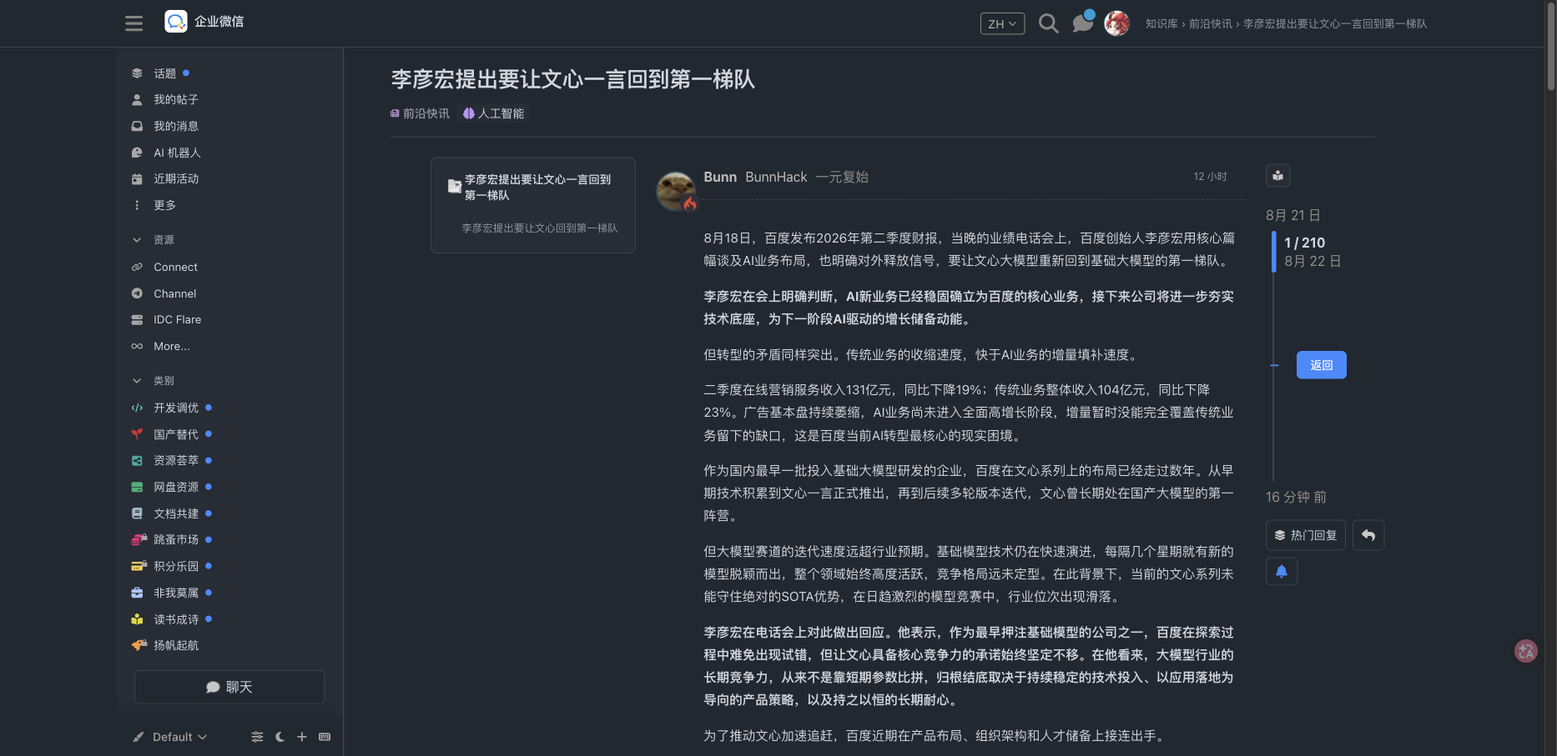
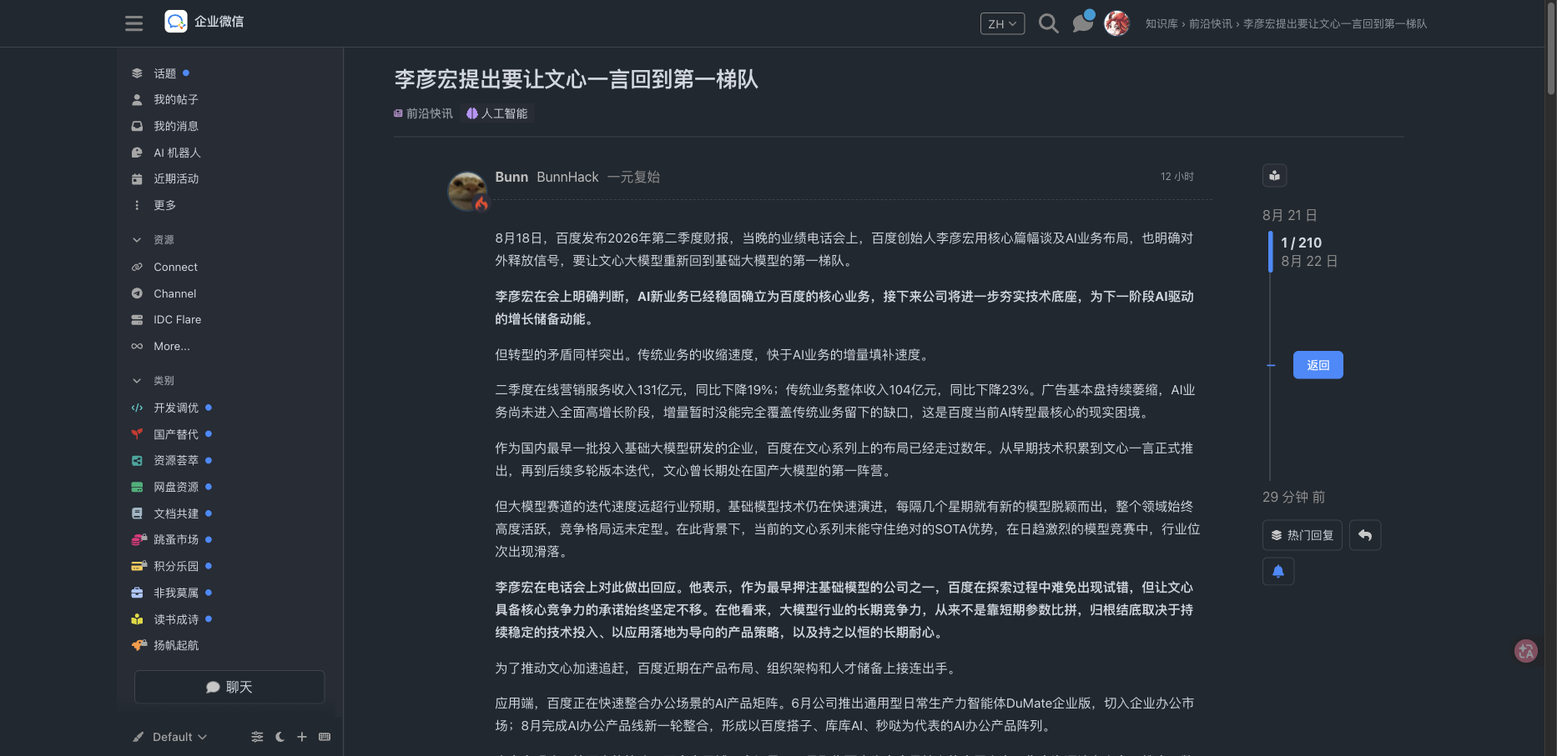
fix(layout): remove artificial left TOC and restore spacious smart doc layout with native right timeline

diff --git a/linuxdo-wecom.user.js b/linuxdo-wecom.user.js
@@ -12,7 +12,7 @@
 
 (function () {
   "use strict";
-  const CSS = "/* ==========================================================================\n   Linux DO · 企业微信智能文档 / 团队知识库版式样式表 (WeCom Smart Doc Layout)\n   ========================================================================== */\n\n/* 1. 主题与色彩系统 (Theme & Tokens) */\nhtml.wecom-doc-theme {\n  color-scheme: light !important;\n  --wecom-bg: #ffffff;\n  --wecom-sidebar: #f6f7f9;\n  --wecom-line: #ebebeb;\n  --wecom-text: #1f1f1f;\n  --wecom-text-2: #6e6e6e;\n  --wecom-text-3: #8c8c8c;\n  --wecom-search: #f3f3f3;\n  --wecom-hover: #f0f0f0;\n  --wecom-active: rgba(31, 126, 255, 0.12);\n  --wecom-link: #1f7eff;\n  --wecom-link-hover: #006fe6;\n  --wecom-doc: #4b8cff;\n  --wecom-callout-bg: #f0f6ff;\n  --wecom-callout-border: rgba(31, 126, 255, 0.2);\n  --wecom-header-h: 56px;\n\n  /* Discourse 原生变量覆盖 */\n  --primary: #1f1f1f !important;\n  --secondary: #ffffff !important;\n  --header_background: #ffffff !important;\n  --header_primary: #1f1f1f !important;\n  --primary-low: #f6f7f9 !important;\n  --primary-very-low: #ffffff !important;\n  --d-hover: #f0f0f0 !important;\n  --tertiary: #1f7eff !important;\n}\n\n/* 深色模式：严格采用 GitHub Primer soft dark (dark_dimmed) + 智能文档蓝 */\nhtml.wecom-doc-theme.wecom-dark {\n  color-scheme: dark !important;\n  --wecom-bg: #212830;\n  --wecom-sidebar: #262c36;\n  --wecom-line: #3d444d;\n  --wecom-text: #d1d7e0;\n  --wecom-text-2: #9198a1;\n  --wecom-text-3: #9198a1;\n  --wecom-search: #2a313c;\n  --wecom-hover: #2f3742;\n  --wecom-active: rgba(56, 139, 255, 0.18);\n  --wecom-link: #388bff;\n  --wecom-link-hover: #549dff;\n  --wecom-doc: #4b8cff;\n  --wecom-callout-bg: #1c2438;\n  --wecom-callout-border: rgba(56, 139, 255, 0.25);\n\n  /* Discourse 原生变量覆盖 */\n  --primary: #d1d7e0 !important;\n  --secondary: #212830 !important;\n  --header_background: #212830 !important;\n  --header_primary: #d1d7e0 !important;\n  --primary-low: #262c36 !important;\n  --primary-very-low: #151b23 !important;\n  --d-hover: #2f3742 !important;\n  --tertiary: #388bff !important;\n}\n\nhtml.wecom-doc-theme,\nhtml.wecom-doc-theme body {\n  background: var(--wecom-bg) !important;\n  color: var(--wecom-text) !important;\n  font-family: -apple-system, BlinkMacSystemFont, \"Segoe UI\", \"PingFang SC\",\n    \"Hiragino Sans GB\", \"Microsoft YaHei\", Arial, sans-serif !important;\n  -webkit-font-smoothing: antialiased;\n}\n\nhtml.wecom-doc-theme a {\n  color: inherit;\n  text-decoration: none;\n}\n\nhtml.wecom-doc-theme .cooked a {\n  color: var(--wecom-link) !important;\n  text-decoration: none;\n}\n\nhtml.wecom-doc-theme .cooked a:hover {\n  text-decoration: underline;\n}\n\n/* ==========================================================================\n   2. 顶栏组件 (Header)\n   ========================================================================== */\nhtml.wecom-doc-theme .d-header-wrap,\nhtml.wecom-doc-theme body .d-header {\n  height: var(--wecom-header-h) !important;\n  background: var(--wecom-bg) !important;\n  border-bottom: 1px solid var(--wecom-line) !important;\n  box-shadow: none !important;\n}\n\nhtml.wecom-doc-theme .d-header .title img,\nhtml.wecom-doc-theme .d-header .title picture,\nhtml.wecom-doc-theme .d-header .title .logo-big,\nhtml.wecom-doc-theme .d-header .title .logo-small {\n  display: none !important;\n}\n\nhtml.wecom-doc-theme .wecom-brand {\n  display: inline-flex;\n  align-items: center;\n  gap: 8px;\n  font-size: 15px;\n  font-weight: 600;\n  color: var(--wecom-text);\n  text-decoration: none;\n  letter-spacing: -0.2px;\n}\n\nhtml.wecom-doc-theme .wecom-app-icon {\n  width: 28px;\n  height: 28px;\n  flex: none;\n  filter: drop-shadow(0 1px 2px rgba(0, 0, 0, 0.08));\n}\n\nhtml.wecom-doc-theme .wecom-topic-context {\n  margin-left: 14px;\n  display: inline-flex;\n  align-items: center;\n  overflow: hidden;\n  text-overflow: ellipsis;\n  white-space: nowrap;\n  color: var(--wecom-text-2);\n  font-size: 13px;\n  max-width: 55vw;\n}\n\nhtml.wecom-doc-theme .d-header .search-input {\n  border-radius: 6px !important;\n  background: var(--wecom-search) !important;\n  border: 1px solid var(--wecom-line) !important;\n  color: var(--wecom-text) !important;\n}\n\n/* ==========================================================================\n   3. 侧边栏导航 (Sidebar / Knowledge Base Navigation)\n   ========================================================================== */\nhtml.wecom-doc-theme .sidebar-wrapper {\n  background: var(--wecom-sidebar) !important;\n  border-right: 1px solid var(--wecom-line) !important;\n  box-shadow: none !important;\n}\n\nhtml.wecom-doc-theme .sidebar-section-header-text {\n  font-size: 12px !important;\n  font-weight: 600 !important;\n  color: var(--wecom-text-3) !important;\n  text-transform: uppercase;\n  letter-spacing: 0.5px;\n}\n\nhtml.wecom-doc-theme .sidebar-section-link,\nhtml.wecom-doc-theme .sidebar-section-link-content-text {\n  color: var(--wecom-text) !important;\n  font-size: 13.5px !important;\n  font-weight: 400;\n}\n\nhtml.wecom-doc-theme .sidebar-section-link-wrapper.is-active,\nhtml.wecom-doc-theme .sidebar-section-link.active {\n  background: var(--wecom-active) !important;\n  color: var(--wecom-link) !important;\n  border-radius: 6px;\n  font-weight: 500 !important;\n}\n\nhtml.wecom-doc-theme .sidebar-section-link:hover {\n  background: var(--wecom-hover);\n  border-radius: 6px;\n}\n\n/* ==========================================================================\n   4. 主页文件表版式 (Home: Knowledge Base File Table)\n   ========================================================================== */\n/* 弱化或隐藏论坛式大条幅与全站公告 */\nhtml.wecom-doc-theme .custom-homepage-banner,\nhtml.wecom-doc-theme #banner,\nhtml.wecom-doc-theme .global-notice,\nhtml.wecom-doc-theme .alert-global-notice,\nhtml.wecom-doc-theme .welcome-banner,\nhtml.wecom-doc-theme .custom-search-banner-wrap,\nhtml.wecom-doc-theme .where-possible-begins,\nhtml.wecom-doc-theme .hero-banner {\n  display: none !important;\n}\n\n/* 主内容区 */\nhtml.wecom-doc-theme #main-outlet {\n  background: var(--wecom-bg) !important;\n  max-width: 1380px !important;\n  padding: 20px 24px !important;\n}\n\n/* 话题列表表头伪装为文件表 */\nhtml.wecom-doc-theme .topic-list-header th {\n  color: var(--wecom-text-3) !important;\n  border-bottom: 1px solid var(--wecom-line) !important;\n  font-weight: 500;\n  font-size: 13px;\n  padding: 10px 8px;\n}\n\nhtml.wecom-doc-theme .topic-list-item {\n  border-bottom: 1px solid var(--wecom-line) !important;\n  transition: background 120ms ease;\n}\n\nhtml.wecom-doc-theme .topic-list-item:hover {\n  background: var(--wecom-hover) !important;\n}\n\n/* 行首蓝色文档图标 */\nhtml.wecom-doc-theme .wecom-doc-icon {\n  width: 18px;\n  height: 18px;\n  border-radius: 4px;\n  flex: none;\n  background: var(--wecom-doc);\n  position: relative;\n  display: inline-block;\n  vertical-align: -3px;\n  margin-right: 8px;\n}\n\nhtml.wecom-doc-theme .wecom-doc-icon::before {\n  content: \"\";\n  position: absolute;\n  left: 3.5px;\n  right: 3.5px;\n  top: 4px;\n  bottom: 4px;\n  background:\n    linear-gradient(#fff, #fff) 0 0 / 100% 2px no-repeat,\n    linear-gradient(#fff, #fff) 0 3.5px / 100% 2px no-repeat,\n    linear-gradient(#fff, #fff) 0 7px / 65% 2px no-repeat;\n}\n\n/* 压缩头像列，减少论坛广场感 */\nhtml.wecom-doc-theme .topic-list .posters {\n  max-width: 90px;\n}\n\nhtml.wecom-doc-theme .topic-list .posters a:not(:first-child) {\n  margin-left: -8px;\n  opacity: 0.85;\n}\n\nhtml.wecom-doc-theme .topic-list .avatar {\n  width: 22px !important;\n  height: 22px !important;\n  border-radius: 50% !important;\n  border: 1.5px solid var(--wecom-bg) !important;\n}\n\n/* 新建话题按钮 -> 企微新建文档按钮 */\nhtml.wecom-doc-theme .btn-primary,\nhtml.wecom-doc-theme .wecom-create-topic {\n  background: var(--wecom-link) !important;\n  color: #fff !important;\n  border: none !important;\n  border-radius: 6px !important;\n  font-weight: 500 !important;\n  padding: 7px 16px !important;\n  transition: background 120ms ease;\n}\n\nhtml.wecom-doc-theme .btn-primary:hover,\nhtml.wecom-doc-theme .wecom-create-topic:hover {\n  background: var(--wecom-link-hover) !important;\n}\n\nhtml.wecom-doc-theme .btn-default {\n  border-radius: 6px !important;\n  border: 1px solid var(--wecom-line) !important;\n  background: var(--wecom-bg) !important;\n  color: var(--wecom-text) !important;\n}\n\n/* ==========================================================================\n   5. 话题详情页版式 (Topic: Smart Document Canvas & Timeline)\n   ========================================================================== */\nhtml.wecom-doc-topic #main-container {\n  width: 100% !important;\n  max-width: 100% !important;\n  margin: 0 !important;\n  padding: 0 !important;\n}\n\nhtml.wecom-doc-topic #topic-title {\n  margin-bottom: 24px !important;\n  padding-bottom: 16px !important;\n  border-bottom: 1px solid var(--wecom-line) !important;\n  max-width: 1180px !important;\n  width: 100% !important;\n}\n\nhtml.wecom-doc-topic #topic-title h1,\nhtml.wecom-doc-topic #topic-title .fancy-title {\n  font-size: 26px !important;\n  font-weight: 700 !important;\n  line-height: 1.35 !important;\n  color: var(--wecom-text) !important;\n  letter-spacing: -0.3px;\n  margin-bottom: 12px !important;\n}\n\nhtml.wecom-doc-topic #topic-title .badge-wrapper.bullet,\nhtml.wecom-doc-topic #topic-title .badge-wrapper.bar {\n  display: inline-flex !important;\n  align-items: center !important;\n  padding: 2px 8px !important;\n  border-radius: 4px !important;\n  background: var(--wecom-search) !important;\n  font-size: 12px !important;\n  margin-right: 6px !important;\n}\n\nhtml.wecom-doc-topic #topic-title .badge-category__name,\nhtml.wecom-doc-topic #topic-title .badge-category-bg {\n  color: var(--wecom-text-2) !important;\n  font-weight: 500 !important;\n}\n\n/* 话题正文与侧栏三栏协同容器 */\nhtml.wecom-doc-topic .container.posts {\n  display: flex !important;\n  flex-direction: row !important;\n  gap: 24px !important;\n  align-items: flex-start !important;\n  width: 100% !important;\n  position: relative !important;\n}\n\n/* 左栏 TOC 目录 (aside.wecom-toc) */\nhtml.wecom-doc-topic aside.wecom-toc {\n  order: 1 !important;\n  width: 220px !important;\n  flex: none !important;\n  position: sticky !important;\n  top: 72px !important;\n  align-self: flex-start !important;\n  max-height: calc(100vh - 100px) !important;\n  overflow-y: auto !important;\n  background: var(--wecom-sidebar) !important;\n  border: 1px solid var(--wecom-line) !important;\n  border-radius: 8px !important;\n  padding: 12px !important;\n  font-size: 13px !important;\n  box-shadow: 0 1px 3px rgba(0, 0, 0, 0.04) !important;\n  z-index: 10 !important;\n}\n\nhtml.wecom-doc-topic .wecom-toc-header {\n  display: flex;\n  align-items: center;\n  gap: 6px;\n  font-size: 13.5px;\n  font-weight: 600;\n  color: var(--wecom-text);\n  margin-bottom: 12px;\n  cursor: pointer;\n  padding: 4px 8px;\n  border-radius: 6px;\n}\n\nhtml.wecom-doc-topic .wecom-toc-header:hover {\n  background: var(--wecom-hover);\n}\n\nhtml.wecom-doc-topic .wecom-toc-list {\n  list-style: none;\n  margin: 0;\n  padding: 0;\n}\n\nhtml.wecom-doc-topic .wecom-toc-item {\n  margin: 4px 0;\n}\n\nhtml.wecom-doc-topic .wecom-toc-item a {\n  display: block;\n  padding: 5px 8px;\n  border-radius: 6px;\n  color: var(--wecom-text-2);\n  white-space: nowrap;\n  overflow: hidden;\n  text-overflow: ellipsis;\n  transition: all 120ms ease;\n}\n\nhtml.wecom-doc-topic .wecom-toc-item a:hover {\n  background: var(--wecom-hover);\n  color: var(--wecom-link);\n}\n\nhtml.wecom-doc-topic .wecom-toc-level-2 a {\n  padding-left: 14px;\n}\n\nhtml.wecom-doc-topic .wecom-toc-level-3 a {\n  padding-left: 24px;\n  font-size: 12.5px;\n}\n\n/* 中栏正文流 (Main Post Stream) */\nhtml.wecom-doc-topic .container.posts > .row,\nhtml.wecom-doc-topic .container.posts .post-stream {\n  order: 2 !important;\n  flex: 1 1 0% !important;\n  min-width: 0 !important;\n  max-width: 960px !important;\n  width: 100% !important;\n}\n\n/* 右栏时间线与阅读进度导航 (Topic Timeline) */\nhtml.wecom-doc-topic .container.posts .topic-navigation {\n  order: 3 !important;\n  width: 170px !important;\n  flex: none !important;\n  position: sticky !important;\n  top: 72px !important;\n  align-self: flex-start !important;\n  display: block !important;\n  margin: 0 !important;\n}\n\nhtml.wecom-doc-topic .timeline-container {\n  background: transparent !important;\n  display: block !important;\n  position: static !important;\n}\n\nhtml.wecom-doc-topic .timeline-container .topic-timeline .timeline-handle {\n  background-color: var(--wecom-link) !important;\n  border-radius: 4px !important;\n}\n\nhtml.wecom-doc-topic .timeline-container .topic-timeline .timeline-scrollarea {\n  border-left: 2px solid var(--wecom-line) !important;\n}\n\nhtml.wecom-doc-topic .timeline-container .topic-timeline .timeline-docked {\n  border-left-color: var(--wecom-line) !important;\n}\n\nhtml.wecom-doc-topic .timeline-container .timeline-controls button {\n  border-radius: 6px !important;\n  border: 1px solid var(--wecom-line) !important;\n  background: var(--wecom-sidebar) !important;\n  color: var(--wecom-text) !important;\n  font-size: 12px !important;\n}\n\nhtml.wecom-doc-topic .wecom-toc-level-3 a {\n  padding-left: 24px;\n  font-size: 12.5px;\n}\n\n/* 中栏主体 (Document Area) */\nhtml.wecom-doc-topic .container.posts {\n  flex: 1 1 0% !important;\n  min-width: 0 !important;\n}\n\nhtml.wecom-doc-topic #topic-title {\n  margin-bottom: 24px !important;\n  padding-bottom: 16px !important;\n  border-bottom: 1px solid var(--wecom-line) !important;\n}\n\nhtml.wecom-doc-topic #topic-title h1,\nhtml.wecom-doc-topic #topic-title .fancy-title {\n  font-size: 26px !important;\n  font-weight: 700 !important;\n  line-height: 1.35 !important;\n  color: var(--wecom-text) !important;\n  letter-spacing: -0.3px;\n  margin-bottom: 12px !important;\n}\n\nhtml.wecom-doc-topic #topic-title .badge-wrapper.bullet,\nhtml.wecom-doc-topic #topic-title .badge-wrapper.bar {\n  display: inline-flex !important;\n  align-items: center !important;\n  padding: 2px 8px !important;\n  border-radius: 4px !important;\n  background: var(--wecom-search) !important;\n  font-size: 12px !important;\n  margin-right: 6px !important;\n}\n\nhtml.wecom-doc-topic #topic-title .badge-category__name,\nhtml.wecom-doc-topic #topic-title .badge-category-bg {\n  color: var(--wecom-text-2) !important;\n  font-weight: 500 !important;\n}\n\n/* 主帖 (#post_1) 作为核心文档画布 */\nhtml.wecom-doc-topic .topic-post:first-child {\n  border: none !important;\n  margin-bottom: 36px !important;\n}\n\nhtml.wecom-doc-topic .topic-post:first-child .topic-body {\n  border-top: none !important;\n}\n\nhtml.wecom-doc-topic .topic-post:first-child .topic-meta-data {\n  display: flex !important;\n  align-items: center !important;\n  gap: 10px !important;\n  padding-bottom: 16px !important;\n  margin-bottom: 16px !important;\n  border-bottom: 1px dashed var(--wecom-line) !important;\n}\n\n/* 2 楼及以后的回复呈现为轻量「批注与讨论流」 */\nhtml.wecom-doc-topic .topic-post:not(:first-child) {\n  background: var(--wecom-sidebar) !important;\n  border: 1px solid var(--wecom-line) !important;\n  border-radius: 8px !important;\n  margin: 14px 0 !important;\n  padding: 8px 16px !important;\n  box-shadow: 0 1px 2px rgba(0, 0, 0, 0.03) !important;\n}\n\nhtml.wecom-doc-topic .topic-post:not(:first-child) .topic-body {\n  border-top: none !important;\n}\n\nhtml.wecom-doc-topic .topic-post:not(:first-child) .topic-meta-data {\n  padding-bottom: 4px !important;\n}\n\nhtml.wecom-doc-topic .names span.first.username {\n  font-weight: 600 !important;\n  color: var(--wecom-text) !important;\n  font-size: 13.5px !important;\n}\n\nhtml.wecom-doc-topic .post-info.post-date {\n  color: var(--wecom-text-3) !important;\n  font-size: 12px !important;\n}\n\n/* ==========================================================================\n   6. 正文排版与组件 (Smart Typography & Callouts)\n   ========================================================================== */\nhtml.wecom-doc-theme .cooked {\n  font-size: 15.5px !important;\n  line-height: 1.75 !important;\n  color: var(--wecom-text) !important;\n}\n\nhtml.wecom-doc-theme .cooked h1 {\n  font-size: 22px !important;\n  font-weight: 700 !important;\n  margin: 28px 0 14px !important;\n  color: var(--wecom-text) !important;\n  border-bottom: 1px solid var(--wecom-line) !important;\n  padding-bottom: 8px !important;\n}\n\nhtml.wecom-doc-theme .cooked h2 {\n  font-size: 18.5px !important;\n  font-weight: 600 !important;\n  margin: 24px 0 12px !important;\n  color: var(--wecom-text) !important;\n}\n\nhtml.wecom-doc-theme .cooked h3 {\n  font-size: 16.5px !important;\n  font-weight: 600 !important;\n  margin: 20px 0 10px !important;\n  color: var(--wecom-text) !important;\n}\n\nhtml.wecom-doc-theme .cooked ul,\nhtml.wecom-doc-theme .cooked ol {\n  padding-left: 24px !important;\n  margin: 12px 0 !important;\n}\n\nhtml.wecom-doc-theme .cooked li {\n  margin-bottom: 6px !important;\n  line-height: 1.7 !important;\n}\n\n/* 智能文档专属 Callout 提示框 */\nhtml.wecom-doc-theme .cooked blockquote,\nhtml.wecom-doc-theme aside.quote {\n  margin: 16px 0 !important;\n  padding: 14px 18px !important;\n  border: 1px solid var(--wecom-callout-border) !important;\n  background: var(--wecom-callout-bg) !important;\n  border-radius: 8px !important;\n  color: var(--wecom-text) !important;\n  position: relative;\n  box-shadow: 0 1px 3px rgba(0, 0, 0, 0.04);\n}\n\nhtml.wecom-doc-theme .cooked blockquote p:last-child {\n  margin-bottom: 0 !important;\n}\n\n/* 代码块与行内代码 */\nhtml.wecom-doc-theme .cooked code {\n  background: var(--wecom-search) !important;\n  color: var(--wecom-text) !important;\n  padding: 2px 6px !important;\n  border-radius: 4px !important;\n  font-size: 0.9em !important;\n}\n\nhtml.wecom-doc-theme .cooked pre code {\n  padding: 14px 16px !important;\n  border-radius: 8px !important;\n  border: 1px solid var(--wecom-line) !important;\n  display: block;\n  line-height: 1.55 !important;\n}\n\n/* 表格组件 */\nhtml.wecom-doc-theme .cooked table {\n  width: 100% !important;\n  border-collapse: collapse !important;\n  margin: 16px 0 !important;\n  border: 1px solid var(--wecom-line) !important;\n  border-radius: 6px !important;\n}\n\nhtml.wecom-doc-theme .cooked table th,\nhtml.wecom-doc-theme .cooked table td {\n  border: 1px solid var(--wecom-line) !important;\n  padding: 10px 14px !important;\n}\n\nhtml.wecom-doc-theme .cooked table th {\n  background: var(--wecom-sidebar) !important;\n  font-weight: 600 !important;\n}\n\n/* 底部操作区 */\nhtml.wecom-doc-theme #topic-footer-buttons {\n  border-top: 1px solid var(--wecom-line) !important;\n  padding-top: 16px !important;\n}\n\n";
+  const CSS = "/* ==========================================================================\n   Linux DO · 企业微信智能文档 / 团队知识库版式样式表 (WeCom Smart Doc Layout)\n   ========================================================================== */\n\n/* 1. 主题与色彩系统 (Theme & Tokens) */\nhtml.wecom-doc-theme {\n  color-scheme: light !important;\n  --wecom-bg: #ffffff;\n  --wecom-sidebar: #f6f7f9;\n  --wecom-line: #ebebeb;\n  --wecom-text: #1f1f1f;\n  --wecom-text-2: #6e6e6e;\n  --wecom-text-3: #8c8c8c;\n  --wecom-search: #f3f3f3;\n  --wecom-hover: #f0f0f0;\n  --wecom-active: rgba(31, 126, 255, 0.12);\n  --wecom-link: #1f7eff;\n  --wecom-link-hover: #006fe6;\n  --wecom-doc: #4b8cff;\n  --wecom-callout-bg: #f0f6ff;\n  --wecom-callout-border: rgba(31, 126, 255, 0.2);\n  --wecom-header-h: 56px;\n\n  /* Discourse 原生变量覆盖 */\n  --primary: #1f1f1f !important;\n  --secondary: #ffffff !important;\n  --header_background: #ffffff !important;\n  --header_primary: #1f1f1f !important;\n  --primary-low: #f6f7f9 !important;\n  --primary-very-low: #ffffff !important;\n  --d-hover: #f0f0f0 !important;\n  --tertiary: #1f7eff !important;\n}\n\n/* 深色模式：严格采用 GitHub Primer soft dark (dark_dimmed) + 智能文档蓝 */\nhtml.wecom-doc-theme.wecom-dark {\n  color-scheme: dark !important;\n  --wecom-bg: #212830;\n  --wecom-sidebar: #262c36;\n  --wecom-line: #3d444d;\n  --wecom-text: #d1d7e0;\n  --wecom-text-2: #9198a1;\n  --wecom-text-3: #9198a1;\n  --wecom-search: #2a313c;\n  --wecom-hover: #2f3742;\n  --wecom-active: rgba(56, 139, 255, 0.18);\n  --wecom-link: #388bff;\n  --wecom-link-hover: #549dff;\n  --wecom-doc: #4b8cff;\n  --wecom-callout-bg: #1c2438;\n  --wecom-callout-border: rgba(56, 139, 255, 0.25);\n\n  /* Discourse 原生变量覆盖 */\n  --primary: #d1d7e0 !important;\n  --secondary: #212830 !important;\n  --header_background: #212830 !important;\n  --header_primary: #d1d7e0 !important;\n  --primary-low: #262c36 !important;\n  --primary-very-low: #151b23 !important;\n  --d-hover: #2f3742 !important;\n  --tertiary: #388bff !important;\n}\n\nhtml.wecom-doc-theme,\nhtml.wecom-doc-theme body {\n  background: var(--wecom-bg) !important;\n  color: var(--wecom-text) !important;\n  font-family: -apple-system, BlinkMacSystemFont, \"Segoe UI\", \"PingFang SC\",\n    \"Hiragino Sans GB\", \"Microsoft YaHei\", Arial, sans-serif !important;\n  -webkit-font-smoothing: antialiased;\n}\n\nhtml.wecom-doc-theme a {\n  color: inherit;\n  text-decoration: none;\n}\n\nhtml.wecom-doc-theme .cooked a {\n  color: var(--wecom-link) !important;\n  text-decoration: none;\n}\n\nhtml.wecom-doc-theme .cooked a:hover {\n  text-decoration: underline;\n}\n\n/* ==========================================================================\n   2. 顶栏组件 (Header)\n   ========================================================================== */\nhtml.wecom-doc-theme .d-header-wrap,\nhtml.wecom-doc-theme body .d-header {\n  height: var(--wecom-header-h) !important;\n  background: var(--wecom-bg) !important;\n  border-bottom: 1px solid var(--wecom-line) !important;\n  box-shadow: none !important;\n}\n\nhtml.wecom-doc-theme .d-header .title img,\nhtml.wecom-doc-theme .d-header .title picture,\nhtml.wecom-doc-theme .d-header .title .logo-big,\nhtml.wecom-doc-theme .d-header .title .logo-small {\n  display: none !important;\n}\n\nhtml.wecom-doc-theme .wecom-brand {\n  display: inline-flex;\n  align-items: center;\n  gap: 8px;\n  font-size: 15px;\n  font-weight: 600;\n  color: var(--wecom-text);\n  text-decoration: none;\n  letter-spacing: -0.2px;\n}\n\nhtml.wecom-doc-theme .wecom-app-icon {\n  width: 28px;\n  height: 28px;\n  flex: none;\n  filter: drop-shadow(0 1px 2px rgba(0, 0, 0, 0.08));\n}\n\nhtml.wecom-doc-theme .wecom-topic-context {\n  margin-left: 14px;\n  display: inline-flex;\n  align-items: center;\n  overflow: hidden;\n  text-overflow: ellipsis;\n  white-space: nowrap;\n  color: var(--wecom-text-2);\n  font-size: 13px;\n  max-width: 55vw;\n}\n\nhtml.wecom-doc-theme .d-header .search-input {\n  border-radius: 6px !important;\n  background: var(--wecom-search) !important;\n  border: 1px solid var(--wecom-line) !important;\n  color: var(--wecom-text) !important;\n}\n\n/* ==========================================================================\n   3. 侧边栏导航 (Sidebar / Knowledge Base Navigation)\n   ========================================================================== */\nhtml.wecom-doc-theme .sidebar-wrapper {\n  background: var(--wecom-sidebar) !important;\n  border-right: 1px solid var(--wecom-line) !important;\n  box-shadow: none !important;\n}\n\nhtml.wecom-doc-theme .sidebar-section-header-text {\n  font-size: 12px !important;\n  font-weight: 600 !important;\n  color: var(--wecom-text-3) !important;\n  text-transform: uppercase;\n  letter-spacing: 0.5px;\n}\n\nhtml.wecom-doc-theme .sidebar-section-link,\nhtml.wecom-doc-theme .sidebar-section-link-content-text {\n  color: var(--wecom-text) !important;\n  font-size: 13.5px !important;\n  font-weight: 400;\n}\n\nhtml.wecom-doc-theme .sidebar-section-link-wrapper.is-active,\nhtml.wecom-doc-theme .sidebar-section-link.active {\n  background: var(--wecom-active) !important;\n  color: var(--wecom-link) !important;\n  border-radius: 6px;\n  font-weight: 500 !important;\n}\n\nhtml.wecom-doc-theme .sidebar-section-link:hover {\n  background: var(--wecom-hover);\n  border-radius: 6px;\n}\n\n/* ==========================================================================\n   4. 主页文件表版式 (Home: Knowledge Base File Table)\n   ========================================================================== */\n/* 弱化或隐藏论坛式大条幅与全站公告 */\nhtml.wecom-doc-theme .custom-homepage-banner,\nhtml.wecom-doc-theme #banner,\nhtml.wecom-doc-theme .global-notice,\nhtml.wecom-doc-theme .alert-global-notice,\nhtml.wecom-doc-theme .welcome-banner,\nhtml.wecom-doc-theme .custom-search-banner-wrap,\nhtml.wecom-doc-theme .where-possible-begins,\nhtml.wecom-doc-theme .hero-banner {\n  display: none !important;\n}\n\n/* 主内容区 */\nhtml.wecom-doc-theme #main-outlet {\n  background: var(--wecom-bg) !important;\n  max-width: 1380px !important;\n  padding: 20px 24px !important;\n}\n\n/* 话题列表表头伪装为文件表 */\nhtml.wecom-doc-theme .topic-list-header th {\n  color: var(--wecom-text-3) !important;\n  border-bottom: 1px solid var(--wecom-line) !important;\n  font-weight: 500;\n  font-size: 13px;\n  padding: 10px 8px;\n}\n\nhtml.wecom-doc-theme .topic-list-item {\n  border-bottom: 1px solid var(--wecom-line) !important;\n  transition: background 120ms ease;\n}\n\nhtml.wecom-doc-theme .topic-list-item:hover {\n  background: var(--wecom-hover) !important;\n}\n\n/* 行首蓝色文档图标 */\nhtml.wecom-doc-theme .wecom-doc-icon {\n  width: 18px;\n  height: 18px;\n  border-radius: 4px;\n  flex: none;\n  background: var(--wecom-doc);\n  position: relative;\n  display: inline-block;\n  vertical-align: -3px;\n  margin-right: 8px;\n}\n\nhtml.wecom-doc-theme .wecom-doc-icon::before {\n  content: \"\";\n  position: absolute;\n  left: 3.5px;\n  right: 3.5px;\n  top: 4px;\n  bottom: 4px;\n  background:\n    linear-gradient(#fff, #fff) 0 0 / 100% 2px no-repeat,\n    linear-gradient(#fff, #fff) 0 3.5px / 100% 2px no-repeat,\n    linear-gradient(#fff, #fff) 0 7px / 65% 2px no-repeat;\n}\n\n/* 压缩头像列，减少论坛广场感 */\nhtml.wecom-doc-theme .topic-list .posters {\n  max-width: 90px;\n}\n\nhtml.wecom-doc-theme .topic-list .posters a:not(:first-child) {\n  margin-left: -8px;\n  opacity: 0.85;\n}\n\nhtml.wecom-doc-theme .topic-list .avatar {\n  width: 22px !important;\n  height: 22px !important;\n  border-radius: 50% !important;\n  border: 1.5px solid var(--wecom-bg) !important;\n}\n\n/* 新建话题按钮 -> 企微新建文档按钮 */\nhtml.wecom-doc-theme .btn-primary,\nhtml.wecom-doc-theme .wecom-create-topic {\n  background: var(--wecom-link) !important;\n  color: #fff !important;\n  border: none !important;\n  border-radius: 6px !important;\n  font-weight: 500 !important;\n  padding: 7px 16px !important;\n  transition: background 120ms ease;\n}\n\nhtml.wecom-doc-theme .btn-primary:hover,\nhtml.wecom-doc-theme .wecom-create-topic:hover {\n  background: var(--wecom-link-hover) !important;\n}\n\nhtml.wecom-doc-theme .btn-default {\n  border-radius: 6px !important;\n  border: 1px solid var(--wecom-line) !important;\n  background: var(--wecom-bg) !important;\n  color: var(--wecom-text) !important;\n}\n\n/* ==========================================================================\n   5. 话题详情页版式 (Topic: Smart Document Canvas & Timeline)\n   ========================================================================== */\nhtml.wecom-doc-topic #main-outlet {\n  background: var(--wecom-bg) !important;\n  max-width: 1380px !important;\n  padding: 20px 28px !important;\n}\n\nhtml.wecom-doc-topic #main-container {\n  width: 100% !important;\n  max-width: 100% !important;\n  margin: 0 !important;\n  padding: 0 !important;\n}\n\nhtml.wecom-doc-topic #topic-title {\n  margin-bottom: 24px !important;\n  padding-bottom: 16px !important;\n  border-bottom: 1px solid var(--wecom-line) !important;\n  width: 100% !important;\n}\n\nhtml.wecom-doc-topic #topic-title h1,\nhtml.wecom-doc-topic #topic-title .fancy-title {\n  font-size: 26px !important;\n  font-weight: 700 !important;\n  line-height: 1.35 !important;\n  color: var(--wecom-text) !important;\n  letter-spacing: -0.3px;\n  margin-bottom: 12px !important;\n}\n\nhtml.wecom-doc-topic #topic-title .badge-wrapper.bullet,\nhtml.wecom-doc-topic #topic-title .badge-wrapper.bar {\n  display: inline-flex !important;\n  align-items: center !important;\n  padding: 2px 8px !important;\n  border-radius: 4px !important;\n  background: var(--wecom-search) !important;\n  font-size: 12px !important;\n  margin-right: 6px !important;\n}\n\nhtml.wecom-doc-topic #topic-title .badge-category__name,\nhtml.wecom-doc-topic #topic-title .badge-category-bg {\n  color: var(--wecom-text-2) !important;\n  font-weight: 500 !important;\n}\n\n/* 彻底隐藏任何残留的 aside.wecom-toc，绝不占用左侧空间 */\naside.wecom-toc,\n.wecom-toc {\n  display: none !important;\n  width: 0 !important;\n  height: 0 !important;\n  margin: 0 !important;\n  padding: 0 !important;\n  border: none !important;\n}\n\n/* 话题正文流与右侧时间线自然布局（正文在左中，时间线在右侧） */\nhtml.wecom-doc-topic .container.posts {\n  display: flex !important;\n  flex-direction: row !important;\n  gap: 32px !important;\n  align-items: flex-start !important;\n  width: 100% !important;\n  position: relative !important;\n}\n\n/* 正文画布 (Main Post Stream) */\nhtml.wecom-doc-topic .container.posts > .row,\nhtml.wecom-doc-topic .container.posts .post-stream {\n  order: 1 !important;\n  flex: 1 1 0% !important;\n  min-width: 0 !important;\n  width: 100% !important;\n}\n\n/* 右栏时间线与阅读进度/大纲切换导航 (Discourse Timeline & Native TOC) */\nhtml.wecom-doc-topic .container.posts .topic-navigation {\n  order: 2 !important;\n  width: 170px !important;\n  flex: none !important;\n  position: sticky !important;\n  top: 72px !important;\n  align-self: flex-start !important;\n  display: block !important;\n  margin: 0 !important;\n}\n\nhtml.wecom-doc-topic .timeline-container {\n  background: transparent !important;\n  display: block !important;\n  position: static !important;\n}\n\nhtml.wecom-doc-topic .timeline-container .topic-timeline .timeline-handle {\n  background-color: var(--wecom-link) !important;\n  border-radius: 4px !important;\n}\n\nhtml.wecom-doc-topic .timeline-container .topic-timeline .timeline-scrollarea {\n  border-left: 2px solid var(--wecom-line) !important;\n}\n\nhtml.wecom-doc-topic .timeline-container .topic-timeline .timeline-docked {\n  border-left-color: var(--wecom-line) !important;\n}\n\nhtml.wecom-doc-topic .timeline-container .timeline-controls button {\n  border-radius: 6px !important;\n  border: 1px solid var(--wecom-line) !important;\n  background: var(--wecom-sidebar) !important;\n  color: var(--wecom-text) !important;\n  font-size: 12px !important;\n}\n\nhtml.wecom-doc-topic .wecom-toc-level-3 a {\n  padding-left: 24px;\n  font-size: 12.5px;\n}\n\n/* 中栏主体 (Document Area) */\nhtml.wecom-doc-topic .container.posts {\n  flex: 1 1 0% !important;\n  min-width: 0 !important;\n}\n\nhtml.wecom-doc-topic #topic-title {\n  margin-bottom: 24px !important;\n  padding-bottom: 16px !important;\n  border-bottom: 1px solid var(--wecom-line) !important;\n}\n\nhtml.wecom-doc-topic #topic-title h1,\nhtml.wecom-doc-topic #topic-title .fancy-title {\n  font-size: 26px !important;\n  font-weight: 700 !important;\n  line-height: 1.35 !important;\n  color: var(--wecom-text) !important;\n  letter-spacing: -0.3px;\n  margin-bottom: 12px !important;\n}\n\nhtml.wecom-doc-topic #topic-title .badge-wrapper.bullet,\nhtml.wecom-doc-topic #topic-title .badge-wrapper.bar {\n  display: inline-flex !important;\n  align-items: center !important;\n  padding: 2px 8px !important;\n  border-radius: 4px !important;\n  background: var(--wecom-search) !important;\n  font-size: 12px !important;\n  margin-right: 6px !important;\n}\n\nhtml.wecom-doc-topic #topic-title .badge-category__name,\nhtml.wecom-doc-topic #topic-title .badge-category-bg {\n  color: var(--wecom-text-2) !important;\n  font-weight: 500 !important;\n}\n\n/* 主帖 (#post_1) 作为核心文档画布 */\nhtml.wecom-doc-topic .topic-post:first-child {\n  border: none !important;\n  margin-bottom: 36px !important;\n}\n\nhtml.wecom-doc-topic .topic-post:first-child .topic-body {\n  border-top: none !important;\n}\n\nhtml.wecom-doc-topic .topic-post:first-child .topic-meta-data {\n  display: flex !important;\n  align-items: center !important;\n  gap: 10px !important;\n  padding-bottom: 16px !important;\n  margin-bottom: 16px !important;\n  border-bottom: 1px dashed var(--wecom-line) !important;\n}\n\n/* 2 楼及以后的回复呈现为轻量「批注与讨论流」 */\nhtml.wecom-doc-topic .topic-post:not(:first-child) {\n  background: var(--wecom-sidebar) !important;\n  border: 1px solid var(--wecom-line) !important;\n  border-radius: 8px !important;\n  margin: 14px 0 !important;\n  padding: 8px 16px !important;\n  box-shadow: 0 1px 2px rgba(0, 0, 0, 0.03) !important;\n}\n\nhtml.wecom-doc-topic .topic-post:not(:first-child) .topic-body {\n  border-top: none !important;\n}\n\nhtml.wecom-doc-topic .topic-post:not(:first-child) .topic-meta-data {\n  padding-bottom: 4px !important;\n}\n\nhtml.wecom-doc-topic .names span.first.username {\n  font-weight: 600 !important;\n  color: var(--wecom-text) !important;\n  font-size: 13.5px !important;\n}\n\nhtml.wecom-doc-topic .post-info.post-date {\n  color: var(--wecom-text-3) !important;\n  font-size: 12px !important;\n}\n\n/* ==========================================================================\n   6. 正文排版与组件 (Smart Typography & Callouts)\n   ========================================================================== */\nhtml.wecom-doc-theme .cooked {\n  font-size: 15.5px !important;\n  line-height: 1.75 !important;\n  color: var(--wecom-text) !important;\n}\n\nhtml.wecom-doc-theme .cooked h1 {\n  font-size: 22px !important;\n  font-weight: 700 !important;\n  margin: 28px 0 14px !important;\n  color: var(--wecom-text) !important;\n  border-bottom: 1px solid var(--wecom-line) !important;\n  padding-bottom: 8px !important;\n}\n\nhtml.wecom-doc-theme .cooked h2 {\n  font-size: 18.5px !important;\n  font-weight: 600 !important;\n  margin: 24px 0 12px !important;\n  color: var(--wecom-text) !important;\n}\n\nhtml.wecom-doc-theme .cooked h3 {\n  font-size: 16.5px !important;\n  font-weight: 600 !important;\n  margin: 20px 0 10px !important;\n  color: var(--wecom-text) !important;\n}\n\nhtml.wecom-doc-theme .cooked ul,\nhtml.wecom-doc-theme .cooked ol {\n  padding-left: 24px !important;\n  margin: 12px 0 !important;\n}\n\nhtml.wecom-doc-theme .cooked li {\n  margin-bottom: 6px !important;\n  line-height: 1.7 !important;\n}\n\n/* 智能文档专属 Callout 提示框 */\nhtml.wecom-doc-theme .cooked blockquote,\nhtml.wecom-doc-theme aside.quote {\n  margin: 16px 0 !important;\n  padding: 14px 18px !important;\n  border: 1px solid var(--wecom-callout-border) !important;\n  background: var(--wecom-callout-bg) !important;\n  border-radius: 8px !important;\n  color: var(--wecom-text) !important;\n  position: relative;\n  box-shadow: 0 1px 3px rgba(0, 0, 0, 0.04);\n}\n\nhtml.wecom-doc-theme .cooked blockquote p:last-child {\n  margin-bottom: 0 !important;\n}\n\n/* 代码块与行内代码 */\nhtml.wecom-doc-theme .cooked code {\n  background: var(--wecom-search) !important;\n  color: var(--wecom-text) !important;\n  padding: 2px 6px !important;\n  border-radius: 4px !important;\n  font-size: 0.9em !important;\n}\n\nhtml.wecom-doc-theme .cooked pre code {\n  padding: 14px 16px !important;\n  border-radius: 8px !important;\n  border: 1px solid var(--wecom-line) !important;\n  display: block;\n  line-height: 1.55 !important;\n}\n\n/* 表格组件 */\nhtml.wecom-doc-theme .cooked table {\n  width: 100% !important;\n  border-collapse: collapse !important;\n  margin: 16px 0 !important;\n  border: 1px solid var(--wecom-line) !important;\n  border-radius: 6px !important;\n}\n\nhtml.wecom-doc-theme .cooked table th,\nhtml.wecom-doc-theme .cooked table td {\n  border: 1px solid var(--wecom-line) !important;\n  padding: 10px 14px !important;\n}\n\nhtml.wecom-doc-theme .cooked table th {\n  background: var(--wecom-sidebar) !important;\n  font-weight: 600 !important;\n}\n\n/* 底部操作区 */\nhtml.wecom-doc-theme #topic-footer-buttons {\n  border-top: 1px solid var(--wecom-line) !important;\n  padding-top: 16px !important;\n}\n\n";
 const THEME_CLASS = "wecom-doc-theme";
 const HOME_CLASS = "wecom-doc-home";
 const TOPIC_CLASS = "wecom-doc-topic";
@@ -256,66 +256,10 @@ function makeDocumentTitle(document, isTopic) {
   }
 }
 
-function makeToc(document) {
-  const postsContainer = document.querySelector(".container.posts");
-  const opPost = findOpPost(document);
-  const entries = collectTocEntries(opPost);
-
-  for (const orphan of document.querySelectorAll("aside.wecom-toc")) {
-    if (!postsContainer || orphan.parentElement !== postsContainer) {
-      orphan.remove();
-    }
+function removeLeftoverToc(document) {
+  for (const toc of document.querySelectorAll("aside.wecom-toc")) {
+    toc.remove();
   }
-
-  if (!postsContainer || !entries.length) {
-    for (const toc of document.querySelectorAll("aside.wecom-toc")) {
-      toc.remove();
-    }
-    return;
-  }
-
-  let tocAside = postsContainer.querySelector(":scope > aside.wecom-toc");
-  if (!tocAside) {
-    tocAside = document.createElement("aside");
-    tocAside.className = "wecom-toc";
-    postsContainer.prepend(tocAside);
-  }
-
-  const topicTitleEl = document.querySelector("#topic-title h1, #topic-title .fancy-title");
-  const rootTitle = topicTitleEl?.textContent?.trim().replace(/\s+/g, " ") || "正文目录";
-
-  tocAside.classList.remove("wecom-toc-empty");
-  const itemsHtml = entries
-    .map(
-      (e) =>
-        `<li class="wecom-toc-item wecom-toc-level-${e.level}" data-target="${e.id}">
-          <a href="#${e.id}">${e.text}</a>
-        </li>`
-    )
-    .join("");
-
-  tocAside.innerHTML = `
-    <div class="wecom-toc-header" data-target="topic-title">
-      <span class="wecom-toc-icon">📑</span>
-      <span class="wecom-toc-title">${rootTitle}</span>
-    </div>
-    <ul class="wecom-toc-list">
-      ${itemsHtml}
-    </ul>
-  `;
-
-  tocAside.onclick = (e) => {
-    const link = e.target.closest("a") || e.target.closest(".wecom-toc-header");
-    if (!link) return;
-    e.preventDefault();
-    const item = e.target.closest("[data-target]");
-    const targetId = item?.dataset?.target;
-    if (targetId === "topic-title") {
-      document.querySelector("#topic-title")?.scrollIntoView({ behavior: "smooth", block: "start" });
-    } else if (targetId) {
-      document.getElementById(targetId)?.scrollIntoView({ behavior: "smooth", block: "start" });
-    }
-  };
 }
 
 function applyTheme(document, css) {
@@ -326,16 +270,15 @@ function applyTheme(document, css) {
   const mode = applyPageMode(document.documentElement, document.body, location.pathname);
   runStep(() => makeBrand(document));
   runStep(() => makeFavicon(document));
+  runStep(() => removeLeftoverToc(document));
   if (mode === "home") {
     document.querySelector(".wecom-topic-context")?.remove();
-    document.querySelector("aside.wecom-toc")?.remove();
     runStep(() => makeDocumentTitle(document, false));
     runStep(() => makeCreateTopicButton(document));
     runStep(() => makeDocIcons(document));
   } else if (mode === "topic") {
     runStep(() => makeTopicContext(document));
     runStep(() => makeDocumentTitle(document, true));
-    runStep(() => makeToc(document));
   }
 }
 

diff --git a/wecom-style.css b/wecom-style.css
@@ -286,6 +286,12 @@ html.wecom-doc-theme .btn-default {
 /* ==========================================================================
    5. 话题详情页版式 (Topic: Smart Document Canvas & Timeline)
    ========================================================================== */
+html.wecom-doc-topic #main-outlet {
+  background: var(--wecom-bg) !important;
+  max-width: 1380px !important;
+  padding: 20px 28px !important;
+}
+
 html.wecom-doc-topic #main-container {
   width: 100% !important;
   max-width: 100% !important;
@@ -297,7 +303,6 @@ html.wecom-doc-topic #topic-title {
   margin-bottom: 24px !important;
   padding-bottom: 16px !important;
   border-bottom: 1px solid var(--wecom-line) !important;
-  max-width: 1180px !important;
   width: 100% !important;
 }
 
@@ -328,100 +333,39 @@ html.wecom-doc-topic #topic-title .badge-category-bg {
   font-weight: 500 !important;
 }
 
-/* 话题正文与侧栏三栏协同容器 */
+/* 彻底隐藏任何残留的 aside.wecom-toc，绝不占用左侧空间 */
+aside.wecom-toc,
+.wecom-toc {
+  display: none !important;
+  width: 0 !important;
+  height: 0 !important;
+  margin: 0 !important;
+  padding: 0 !important;
+  border: none !important;
+}
+
+/* 话题正文流与右侧时间线自然布局（正文在左中，时间线在右侧） */
 html.wecom-doc-topic .container.posts {
   display: flex !important;
   flex-direction: row !important;
-  gap: 24px !important;
+  gap: 32px !important;
   align-items: flex-start !important;
   width: 100% !important;
   position: relative !important;
 }
 
-/* 左栏 TOC 目录 (aside.wecom-toc) */
-html.wecom-doc-topic aside.wecom-toc {
-  order: 1 !important;
-  width: 220px !important;
-  flex: none !important;
-  position: sticky !important;
-  top: 72px !important;
-  align-self: flex-start !important;
-  max-height: calc(100vh - 100px) !important;
-  overflow-y: auto !important;
-  background: var(--wecom-sidebar) !important;
-  border: 1px solid var(--wecom-line) !important;
-  border-radius: 8px !important;
-  padding: 12px !important;
-  font-size: 13px !important;
-  box-shadow: 0 1px 3px rgba(0, 0, 0, 0.04) !important;
-  z-index: 10 !important;
-}
-
-html.wecom-doc-topic .wecom-toc-header {
-  display: flex;
-  align-items: center;
-  gap: 6px;
-  font-size: 13.5px;
-  font-weight: 600;
-  color: var(--wecom-text);
-  margin-bottom: 12px;
-  cursor: pointer;
-  padding: 4px 8px;
-  border-radius: 6px;
-}
-
-html.wecom-doc-topic .wecom-toc-header:hover {
-  background: var(--wecom-hover);
-}
-
-html.wecom-doc-topic .wecom-toc-list {
-  list-style: none;
-  margin: 0;
-  padding: 0;
-}
-
-html.wecom-doc-topic .wecom-toc-item {
-  margin: 4px 0;
-}
-
-html.wecom-doc-topic .wecom-toc-item a {
-  display: block;
-  padding: 5px 8px;
-  border-radius: 6px;
-  color: var(--wecom-text-2);
-  white-space: nowrap;
-  overflow: hidden;
-  text-overflow: ellipsis;
-  transition: all 120ms ease;
-}
-
-html.wecom-doc-topic .wecom-toc-item a:hover {
-  background: var(--wecom-hover);
-  color: var(--wecom-link);
-}
-
-html.wecom-doc-topic .wecom-toc-level-2 a {
-  padding-left: 14px;
-}
-
-html.wecom-doc-topic .wecom-toc-level-3 a {
-  padding-left: 24px;
-  font-size: 12.5px;
-}
-
-/* 中栏正文流 (Main Post Stream) */
+/* 正文画布 (Main Post Stream) */
 html.wecom-doc-topic .container.posts > .row,
 html.wecom-doc-topic .container.posts .post-stream {
-  order: 2 !important;
+  order: 1 !important;
   flex: 1 1 0% !important;
   min-width: 0 !important;
-  max-width: 960px !important;
   width: 100% !important;
 }
 
-/* 右栏时间线与阅读进度导航 (Topic Timeline) */
+/* 右栏时间线与阅读进度/大纲切换导航 (Discourse Timeline & Native TOC) */
 html.wecom-doc-topic .container.posts .topic-navigation {
-  order: 3 !important;
+  order: 2 !important;
   width: 170px !important;
   flex: none !important;
   position: sticky !important;
